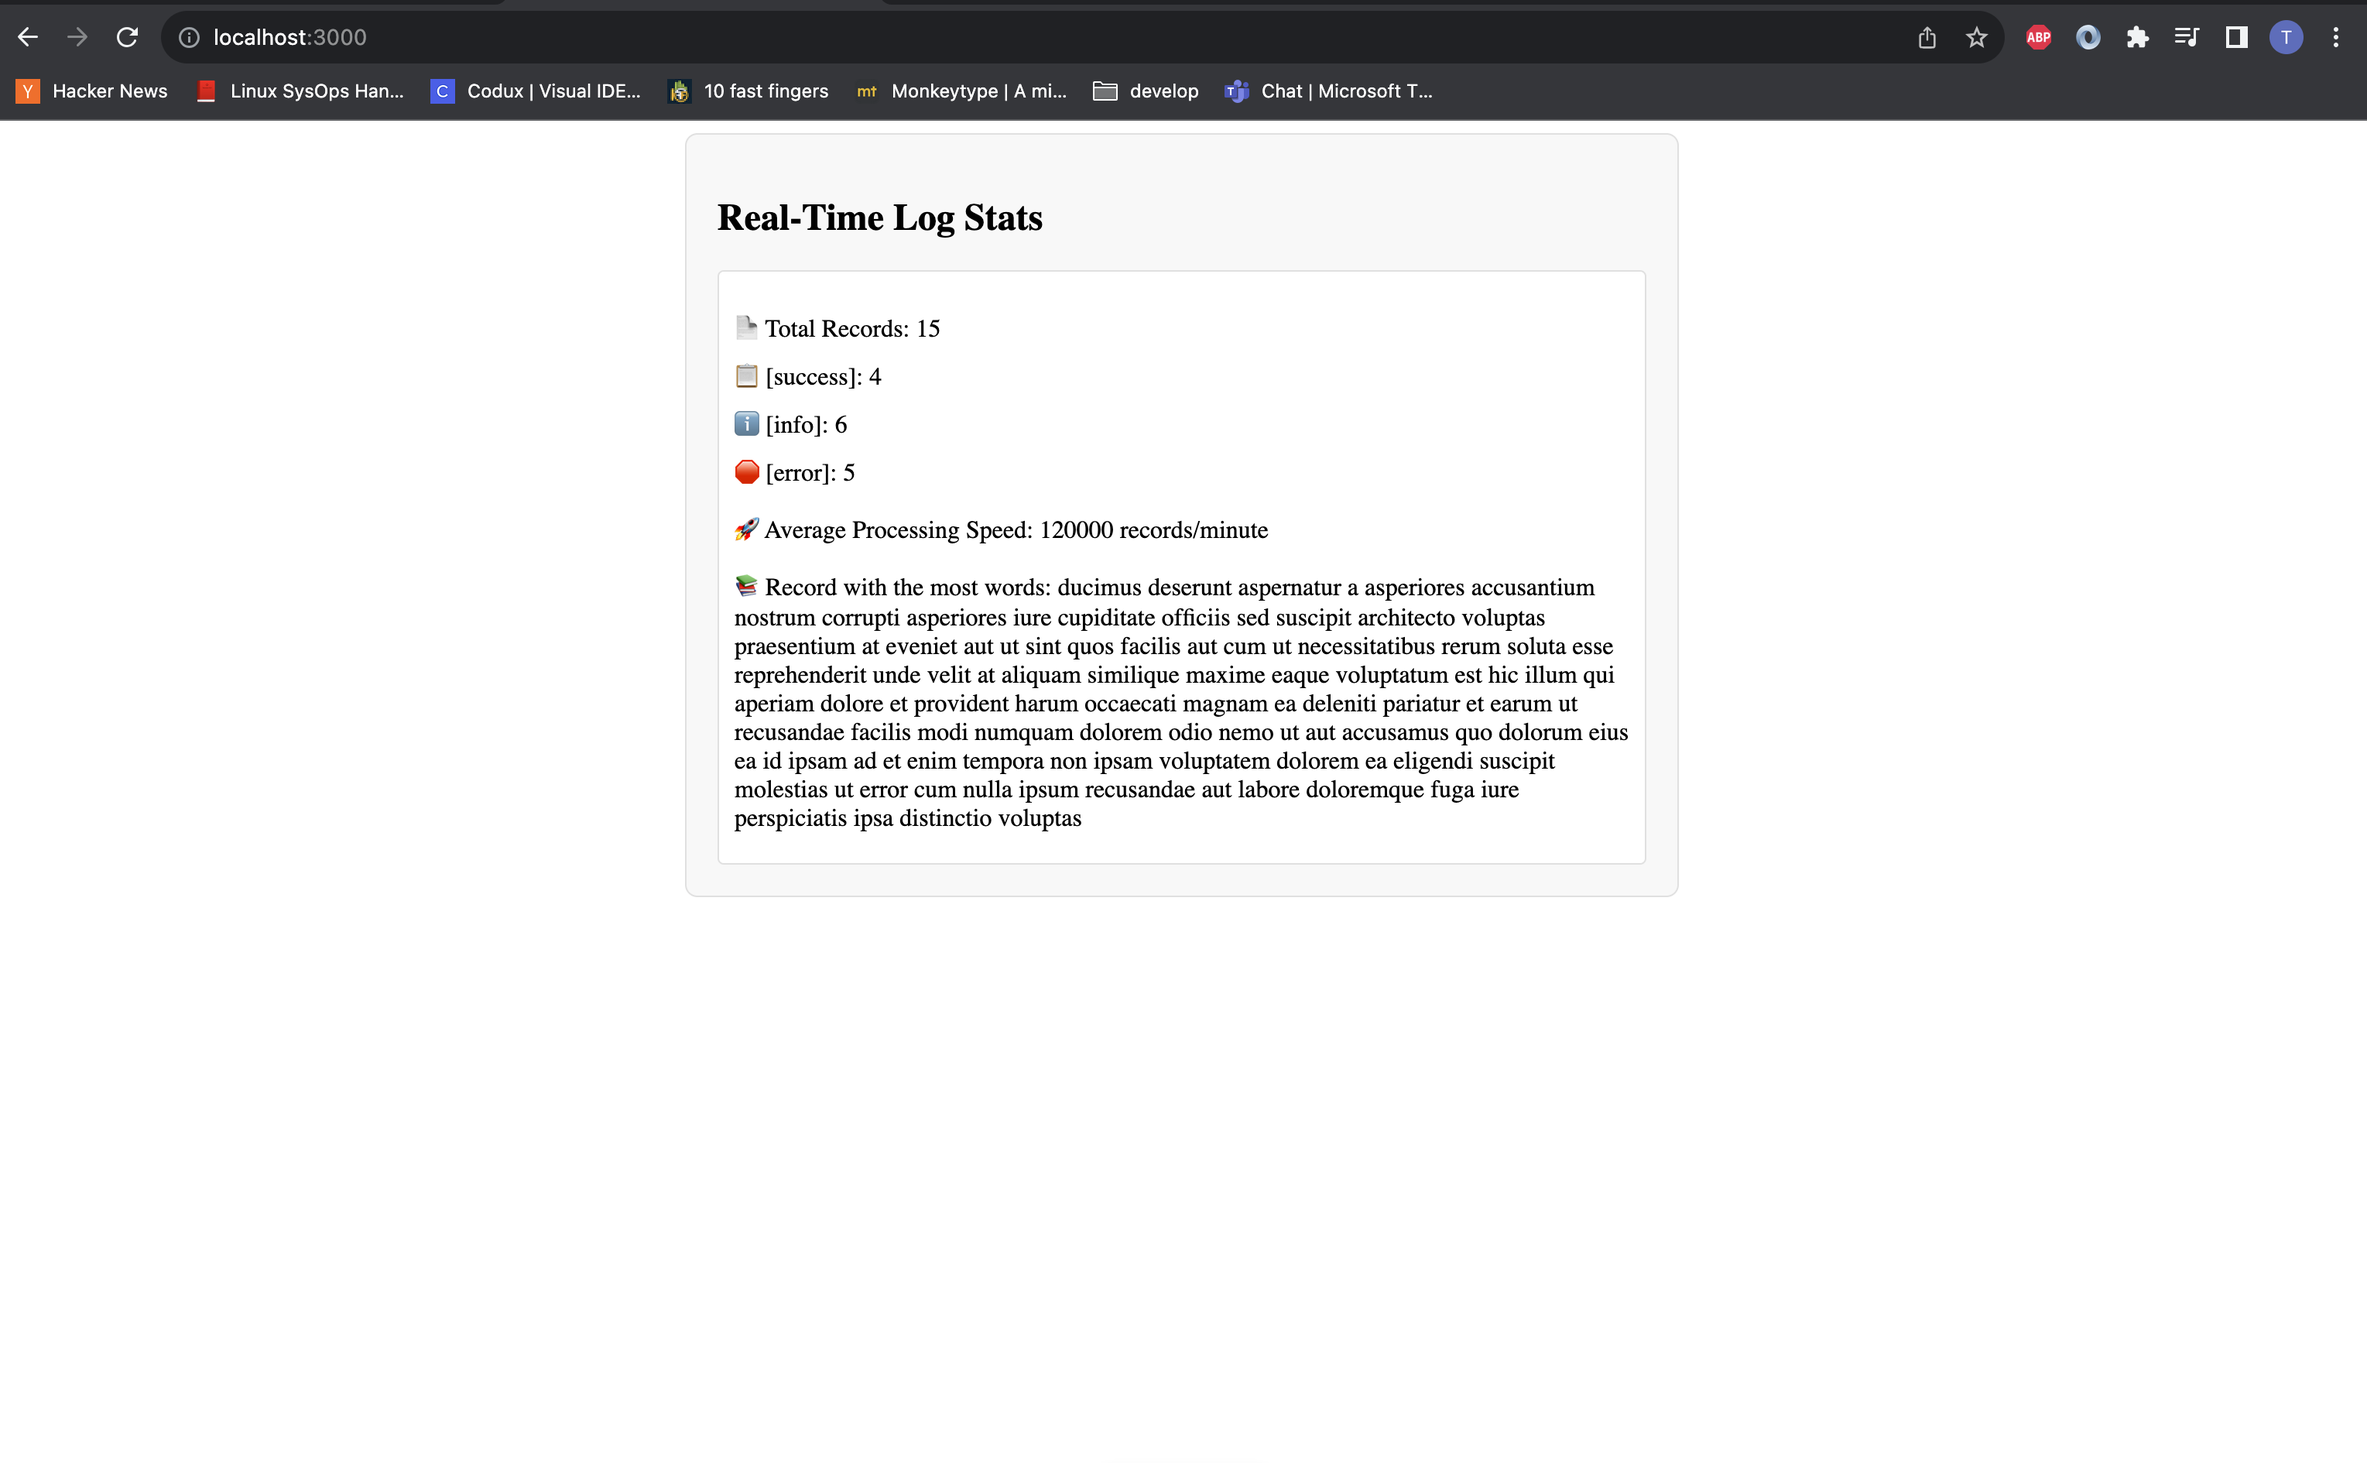
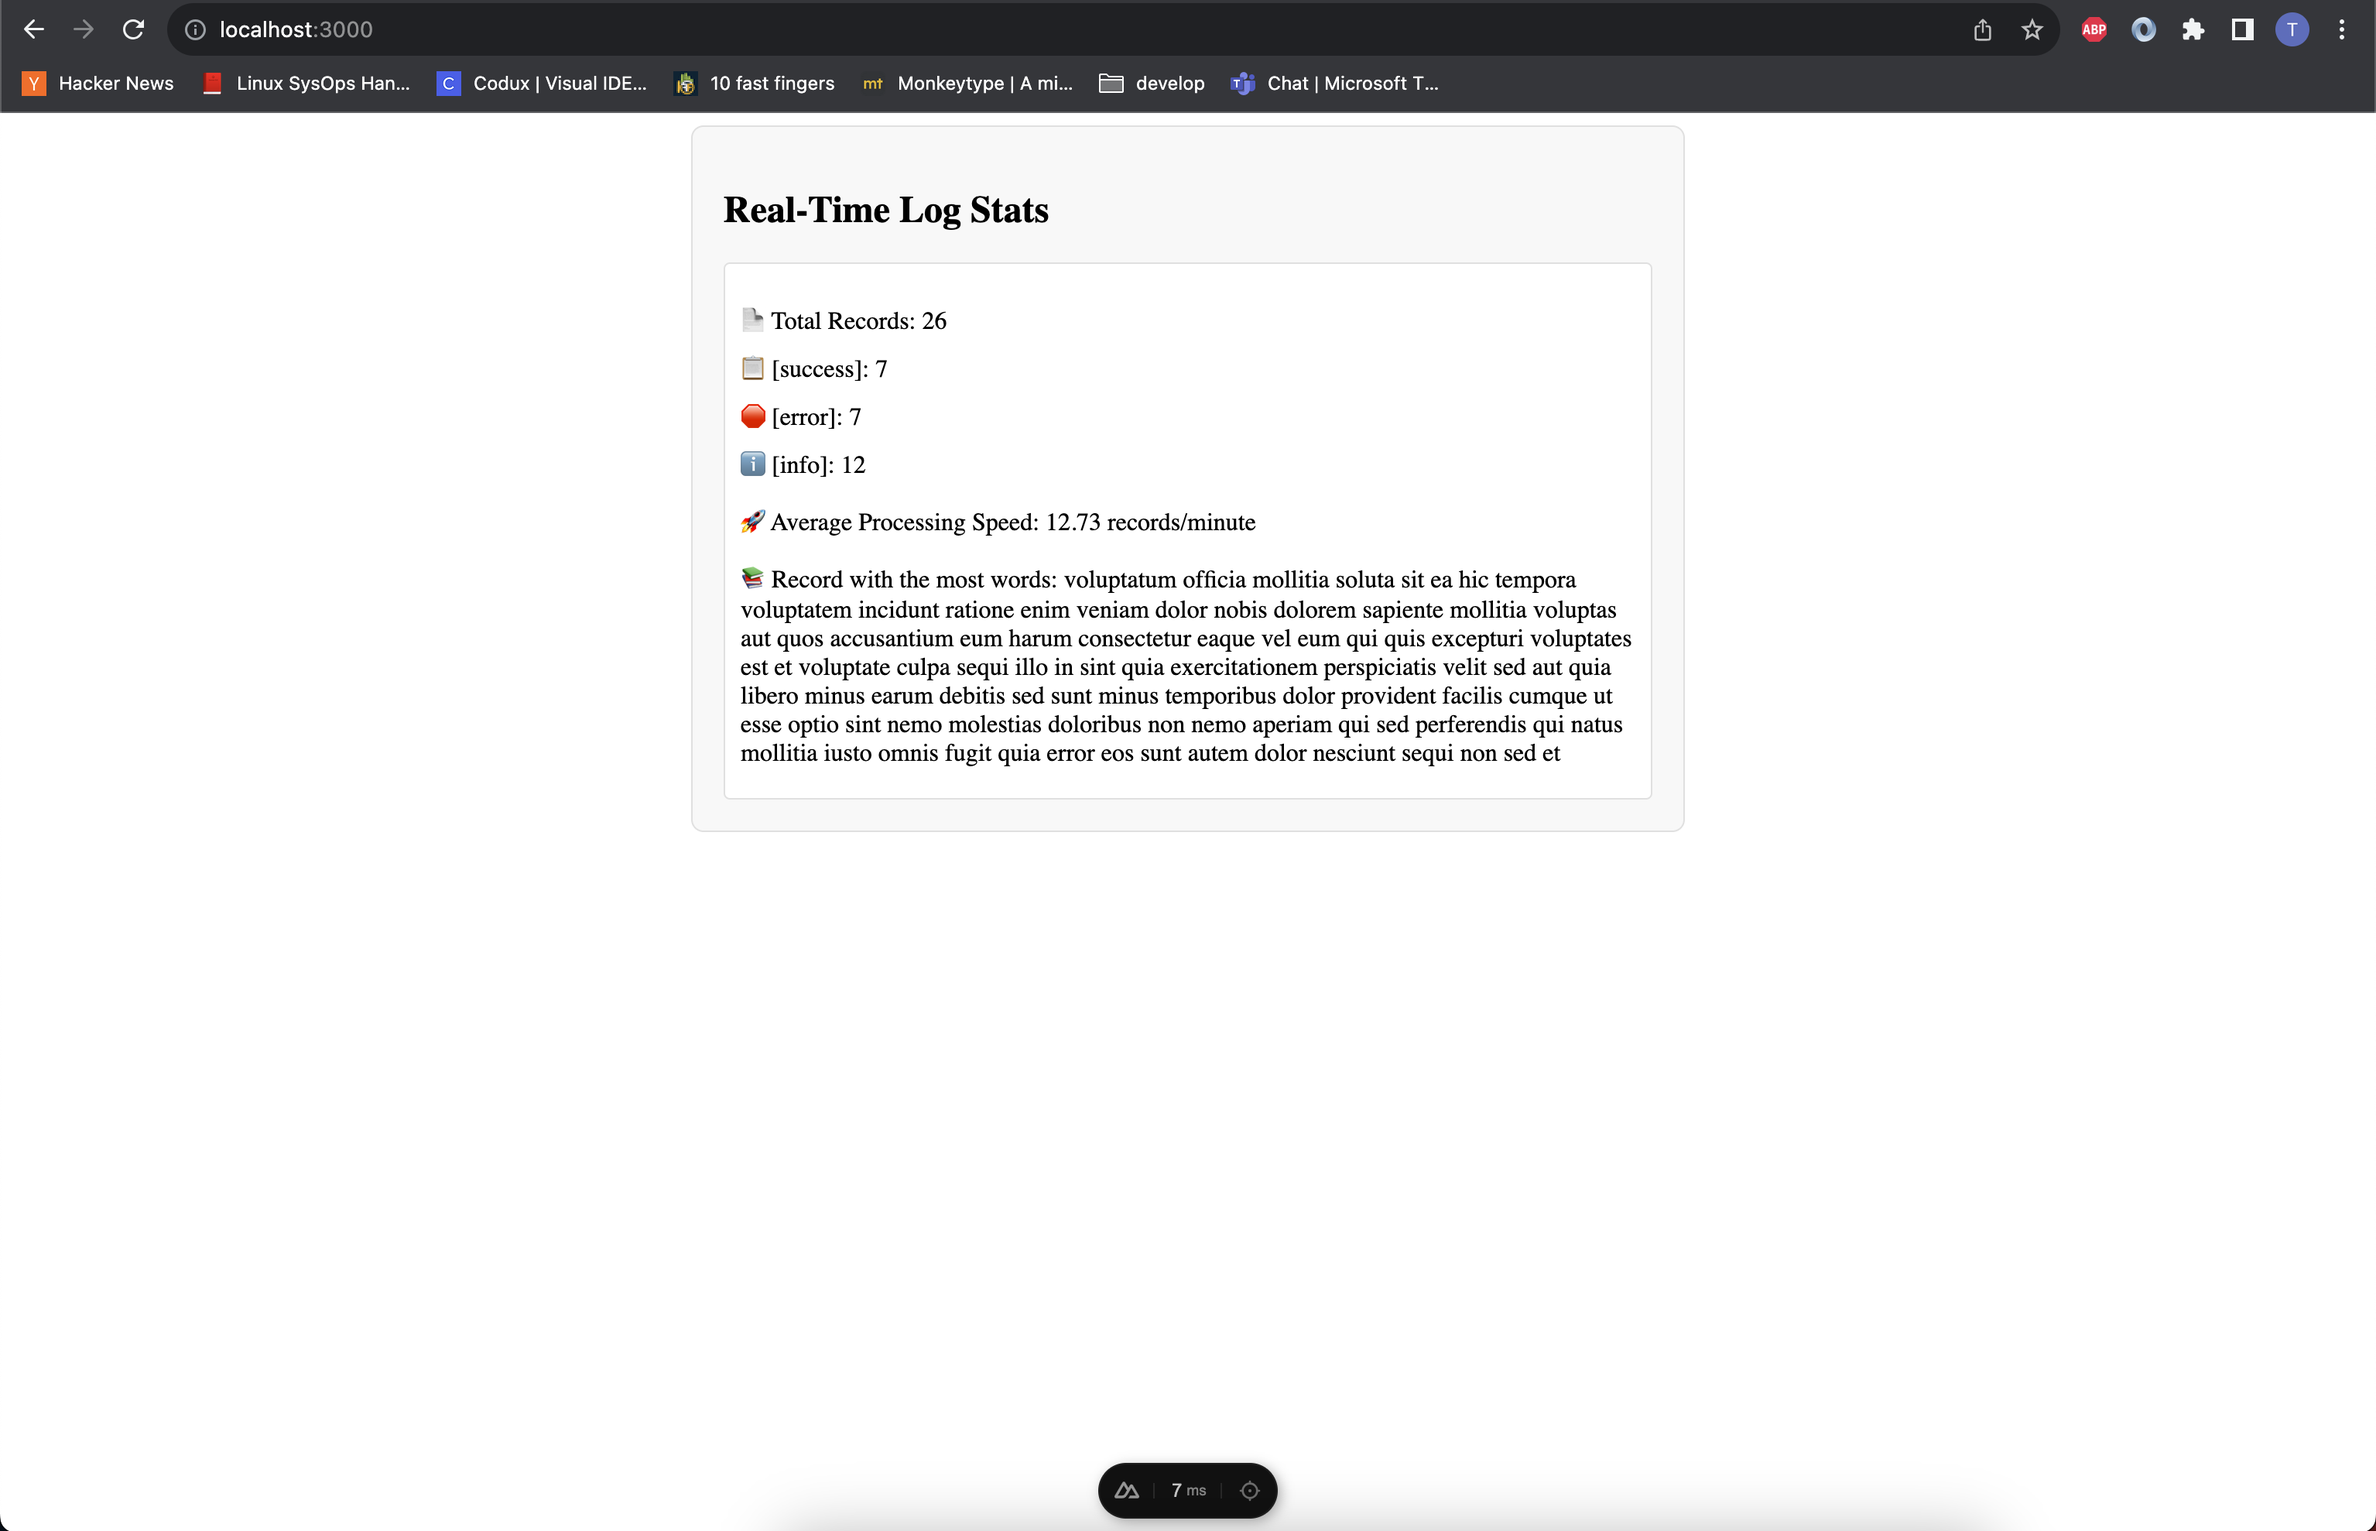
Simulate Processing Speed based on wordcount

diff --git a/server/log_analyzer.js b/server/log_analyzer.js
@@ -14,8 +14,7 @@ async function analyzeLog(filePath) {
       const [timestamp, messageType, ...messageArray] = line.split(' ');
       const wordCount = messageArray.length;
       const message = messageArray.join(' ');
-      const processingSpeed = (Date.now() - startTime) * 1000 * 60;
-      return { timestamp, messageType, processingSpeed, wordCount, message };
+      return { timestamp, messageType, wordCount, message };
     });
 
     // Step 2: Calculate statistics
@@ -33,8 +32,17 @@ async function analyzeLog(filePath) {
     });
 
     // Calculate the average processing speed per minute
-    const totalProcessingSpeed = logRecords.reduce((sum, record) => sum + record.processingSpeed, 0);
-    const avgProcessingSpeed = totalProcessingSpeed / records;
+    let totalProcessingTime = 0;
+    for (let i = 0; i < logRecords.length; i++) {
+      // Simulate processing each log record
+      // Replace the setTimeout with your actual processing logic
+      var simTime = logRecords[i].wordCount * 100
+      const processingTime = simTime; // Replace with the actual time taken to process this record in milliseconds
+      totalProcessingTime += processingTime;
+    }
+
+    const avgProcessingSpeed = (records / (totalProcessingTime / 60000)).toFixed(2);
+
 
     // Find the record with the most words
     const maxWords = logRecords.reduce((prevRecord, currentRecord) => {
